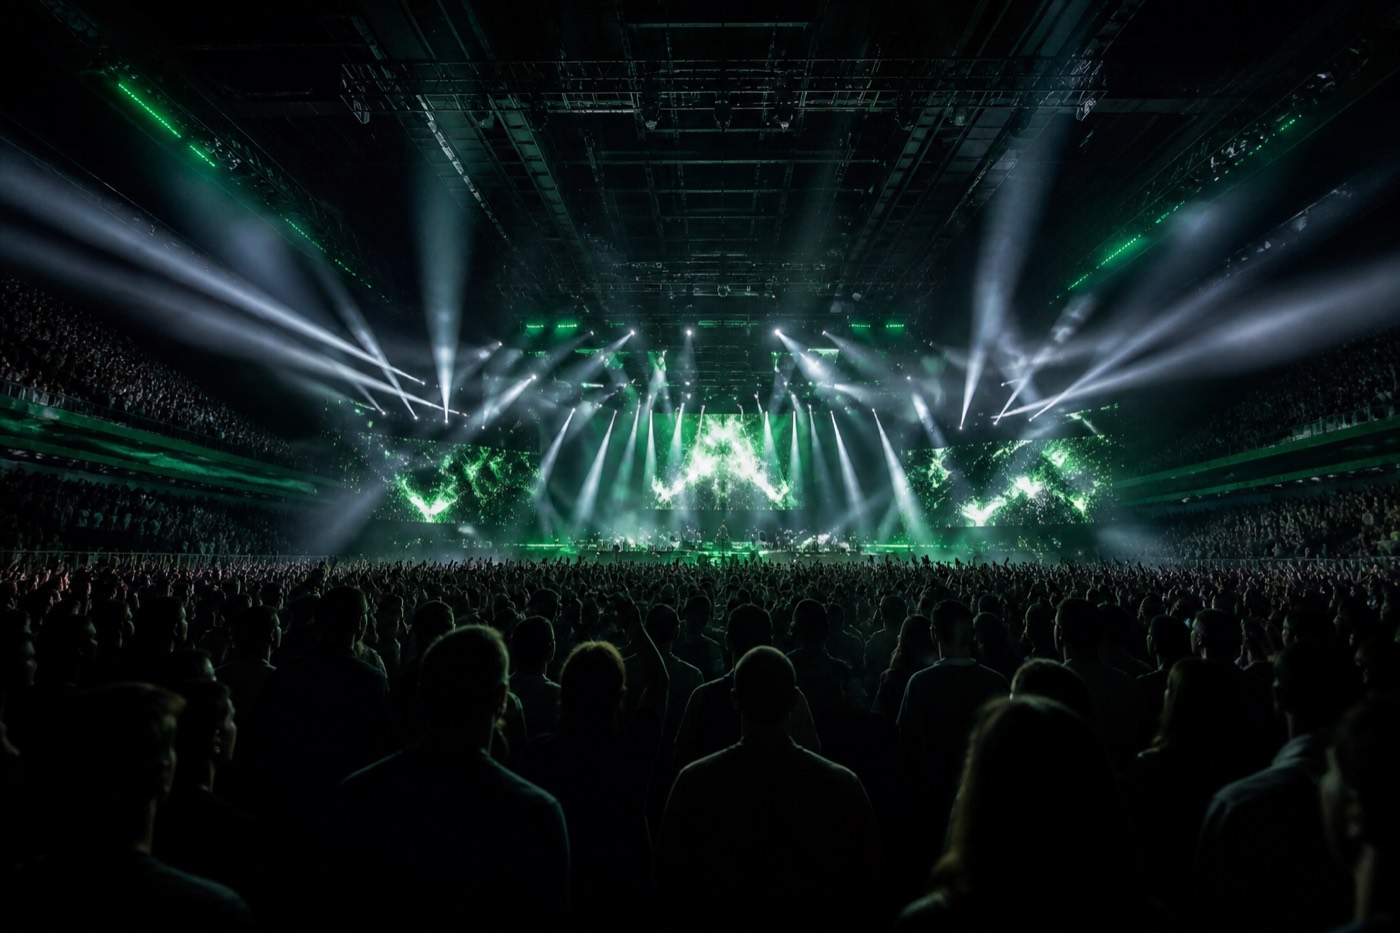
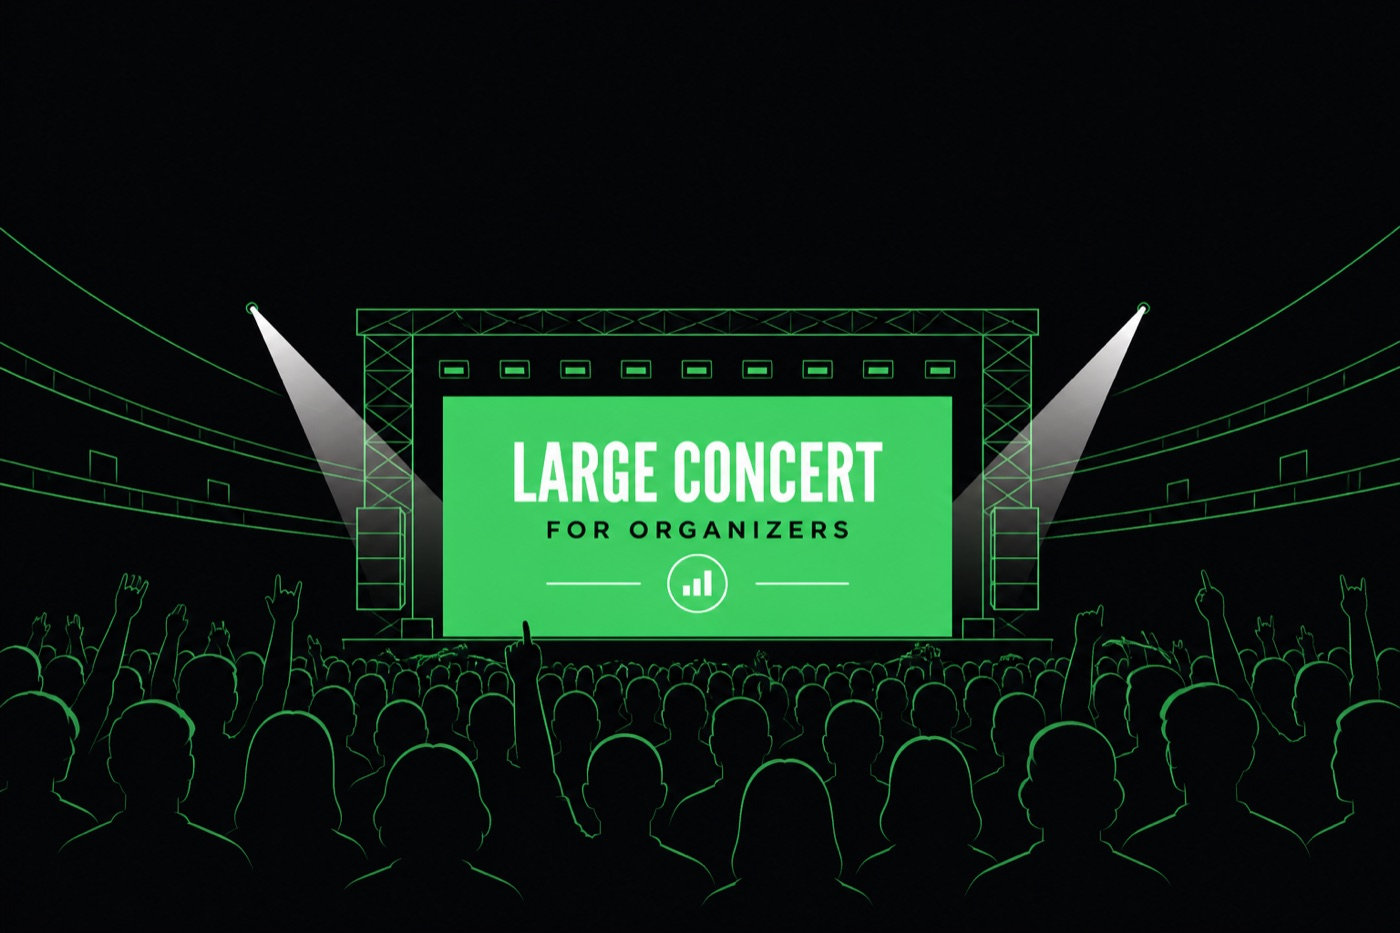
Replace audience photos with shorter illustration-style art.

diff --git a/index.html b/index.html
@@ -3390,8 +3390,10 @@
     .phone .bento-cats .tile-media {
       display: block;
       width: 100%;
-      aspect-ratio: 16 / 9;
+      aspect-ratio: 2.35 / 1;
+      max-height: 168px;
       object-fit: cover;
+      object-position: center 40%;
       background: #111;
     }
     .phone .bento-cats .tile-body {
@@ -3933,7 +3935,7 @@
         </div>
         <div class="bento-cats reveal">
           <article class="tile">
-            <img class="tile-media" src="assets/audience-small-org.jpg" data-i18n-alt="audSmallAlt" alt="Небольшой ивент в своём кругу" width="1400" height="788" loading="lazy" />
+            <img class="tile-media" src="assets/audience-small-org.jpg" data-i18n-alt="audSmallAlt" alt="Небольшой ивент в своём кругу" width="1400" height="595" loading="lazy" />
             <div class="tile-body">
               <span class="tag" data-i18n="audSmallTag">Свой круг</span>
               <h3 data-i18n="audSmallH">Интересные ивенты без бизнеса</h3>
@@ -3942,7 +3944,7 @@
             </div>
           </article>
           <article class="tile">
-            <img class="tile-media" src="assets/audience-large-org.jpg" data-i18n-alt="audLargeAlt" alt="Крупный концерт и площадка" width="1400" height="788" loading="lazy" />
+            <img class="tile-media" src="assets/audience-large-org.jpg" data-i18n-alt="audLargeAlt" alt="Крупный концерт и площадка" width="1400" height="595" loading="lazy" />
             <div class="tile-body">
               <span class="tag" data-i18n="audLargeTag">Масштаб</span>
               <h3 data-i18n="audLargeH">Агентства и площадки</h3>
